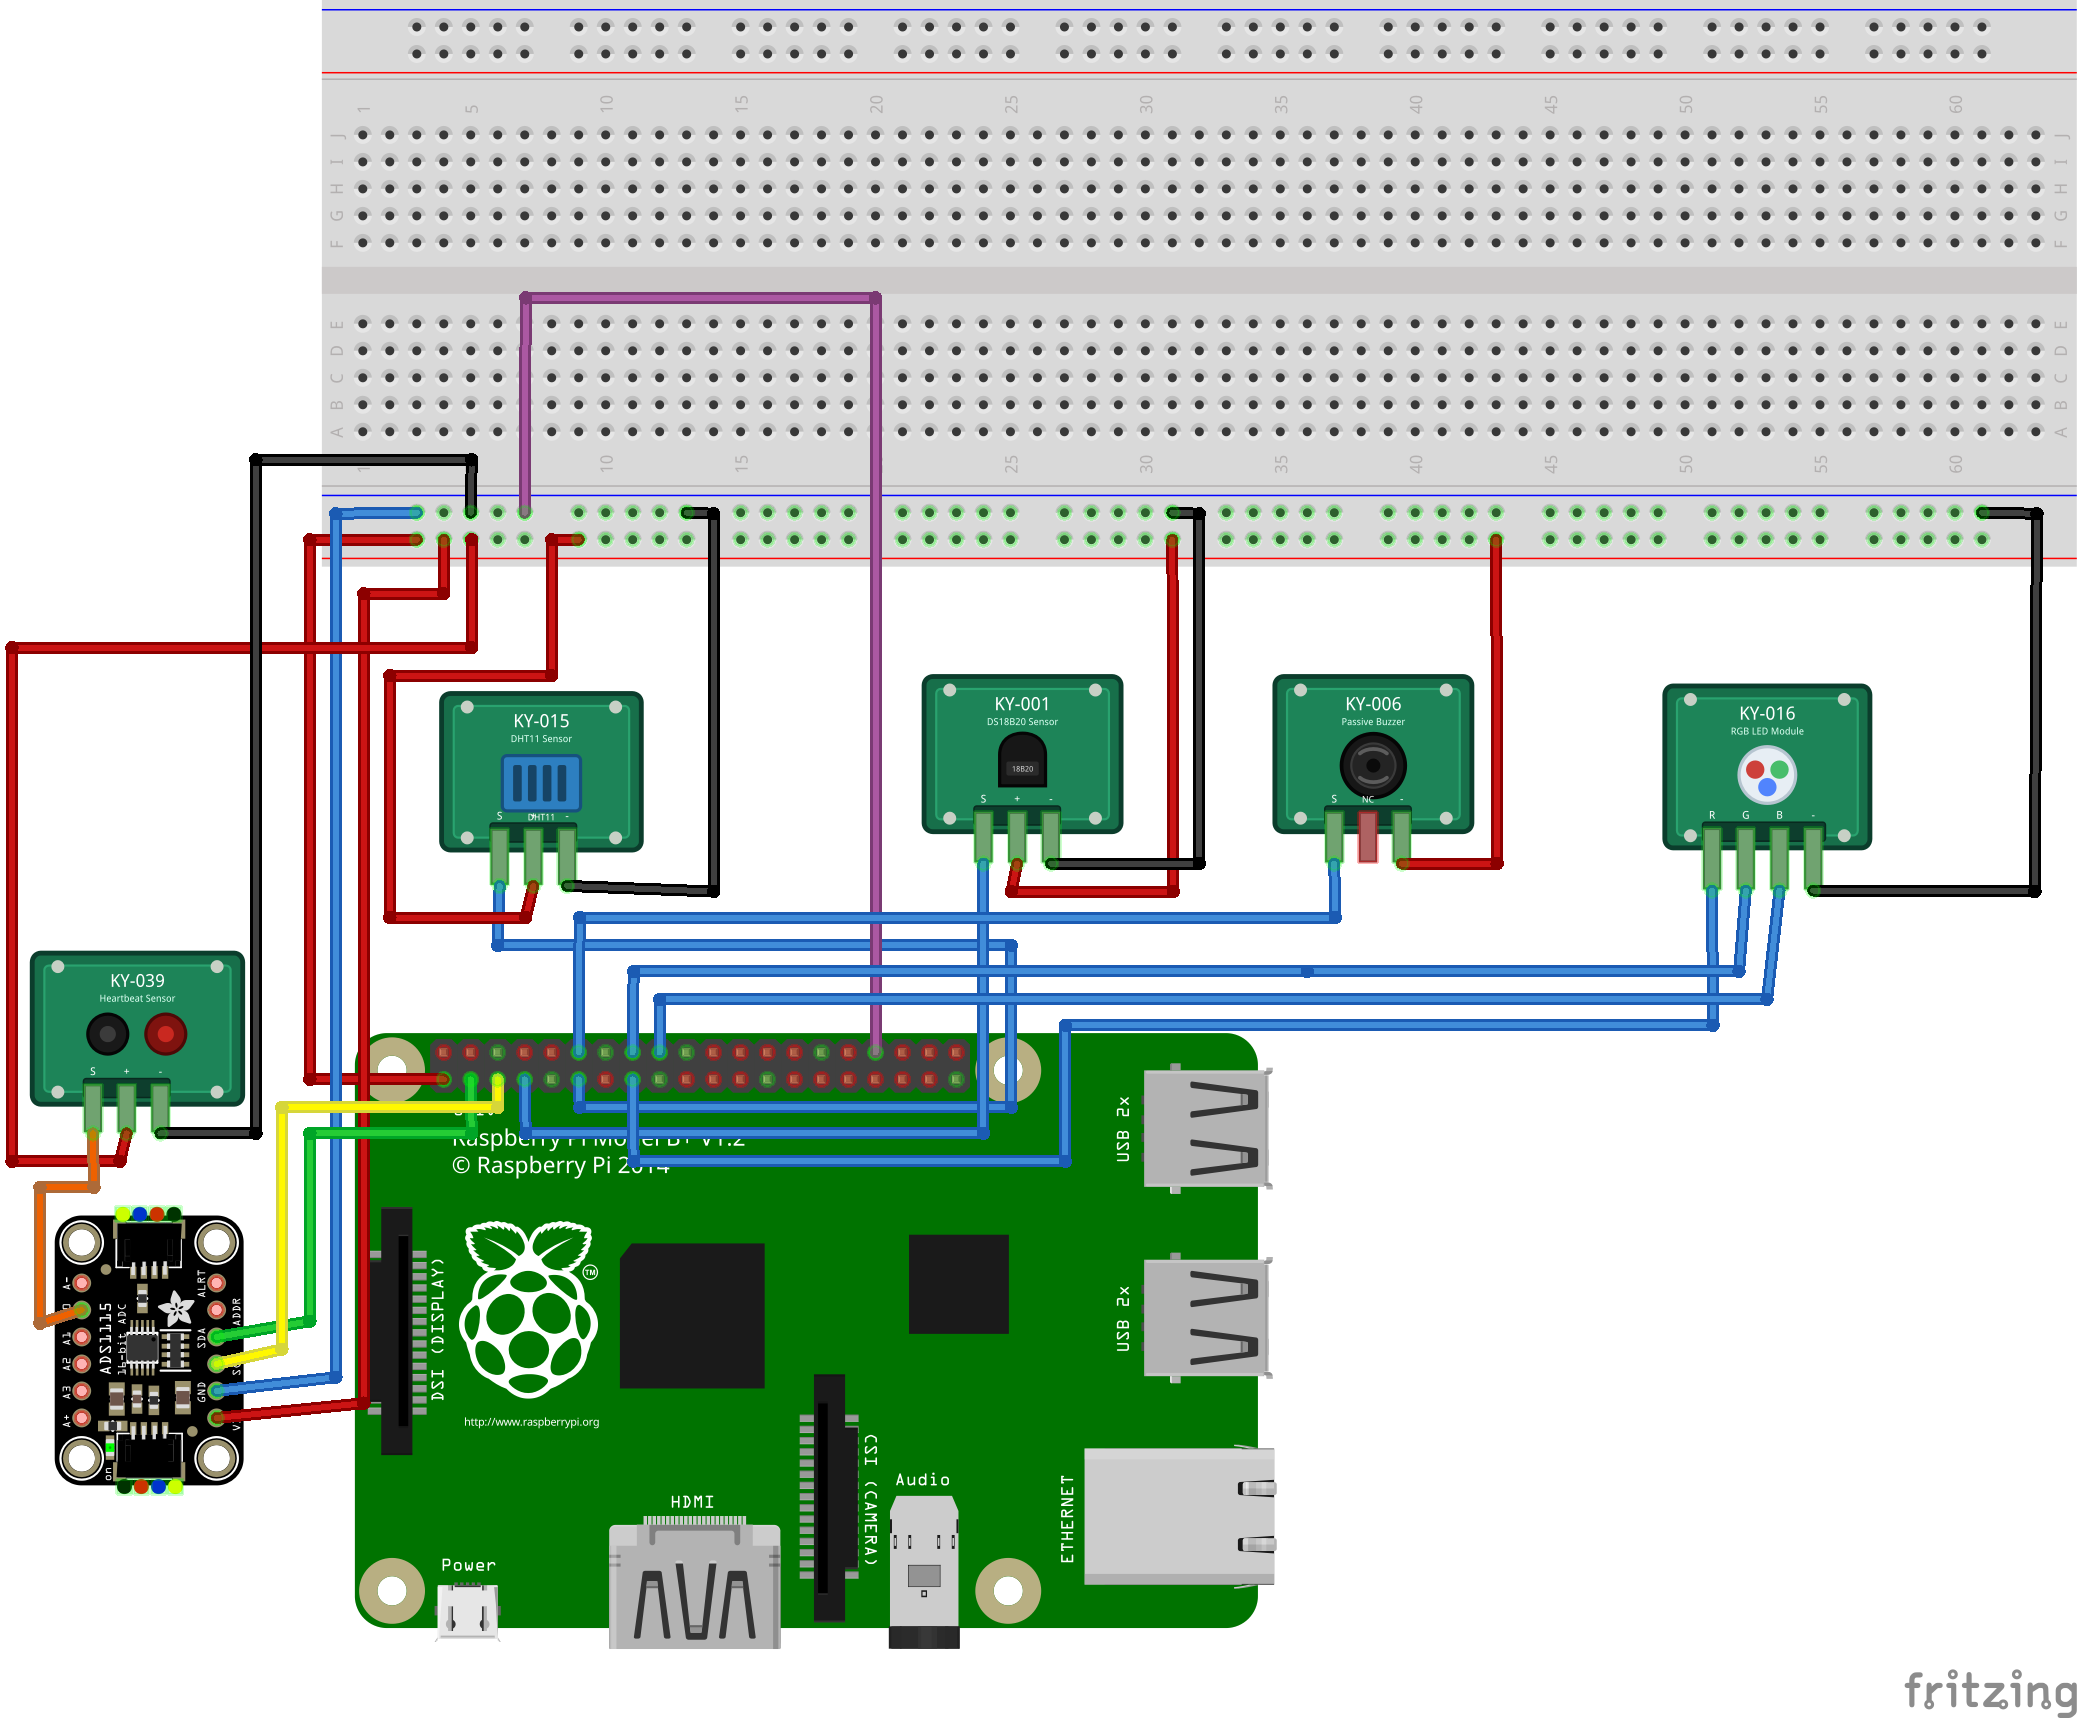
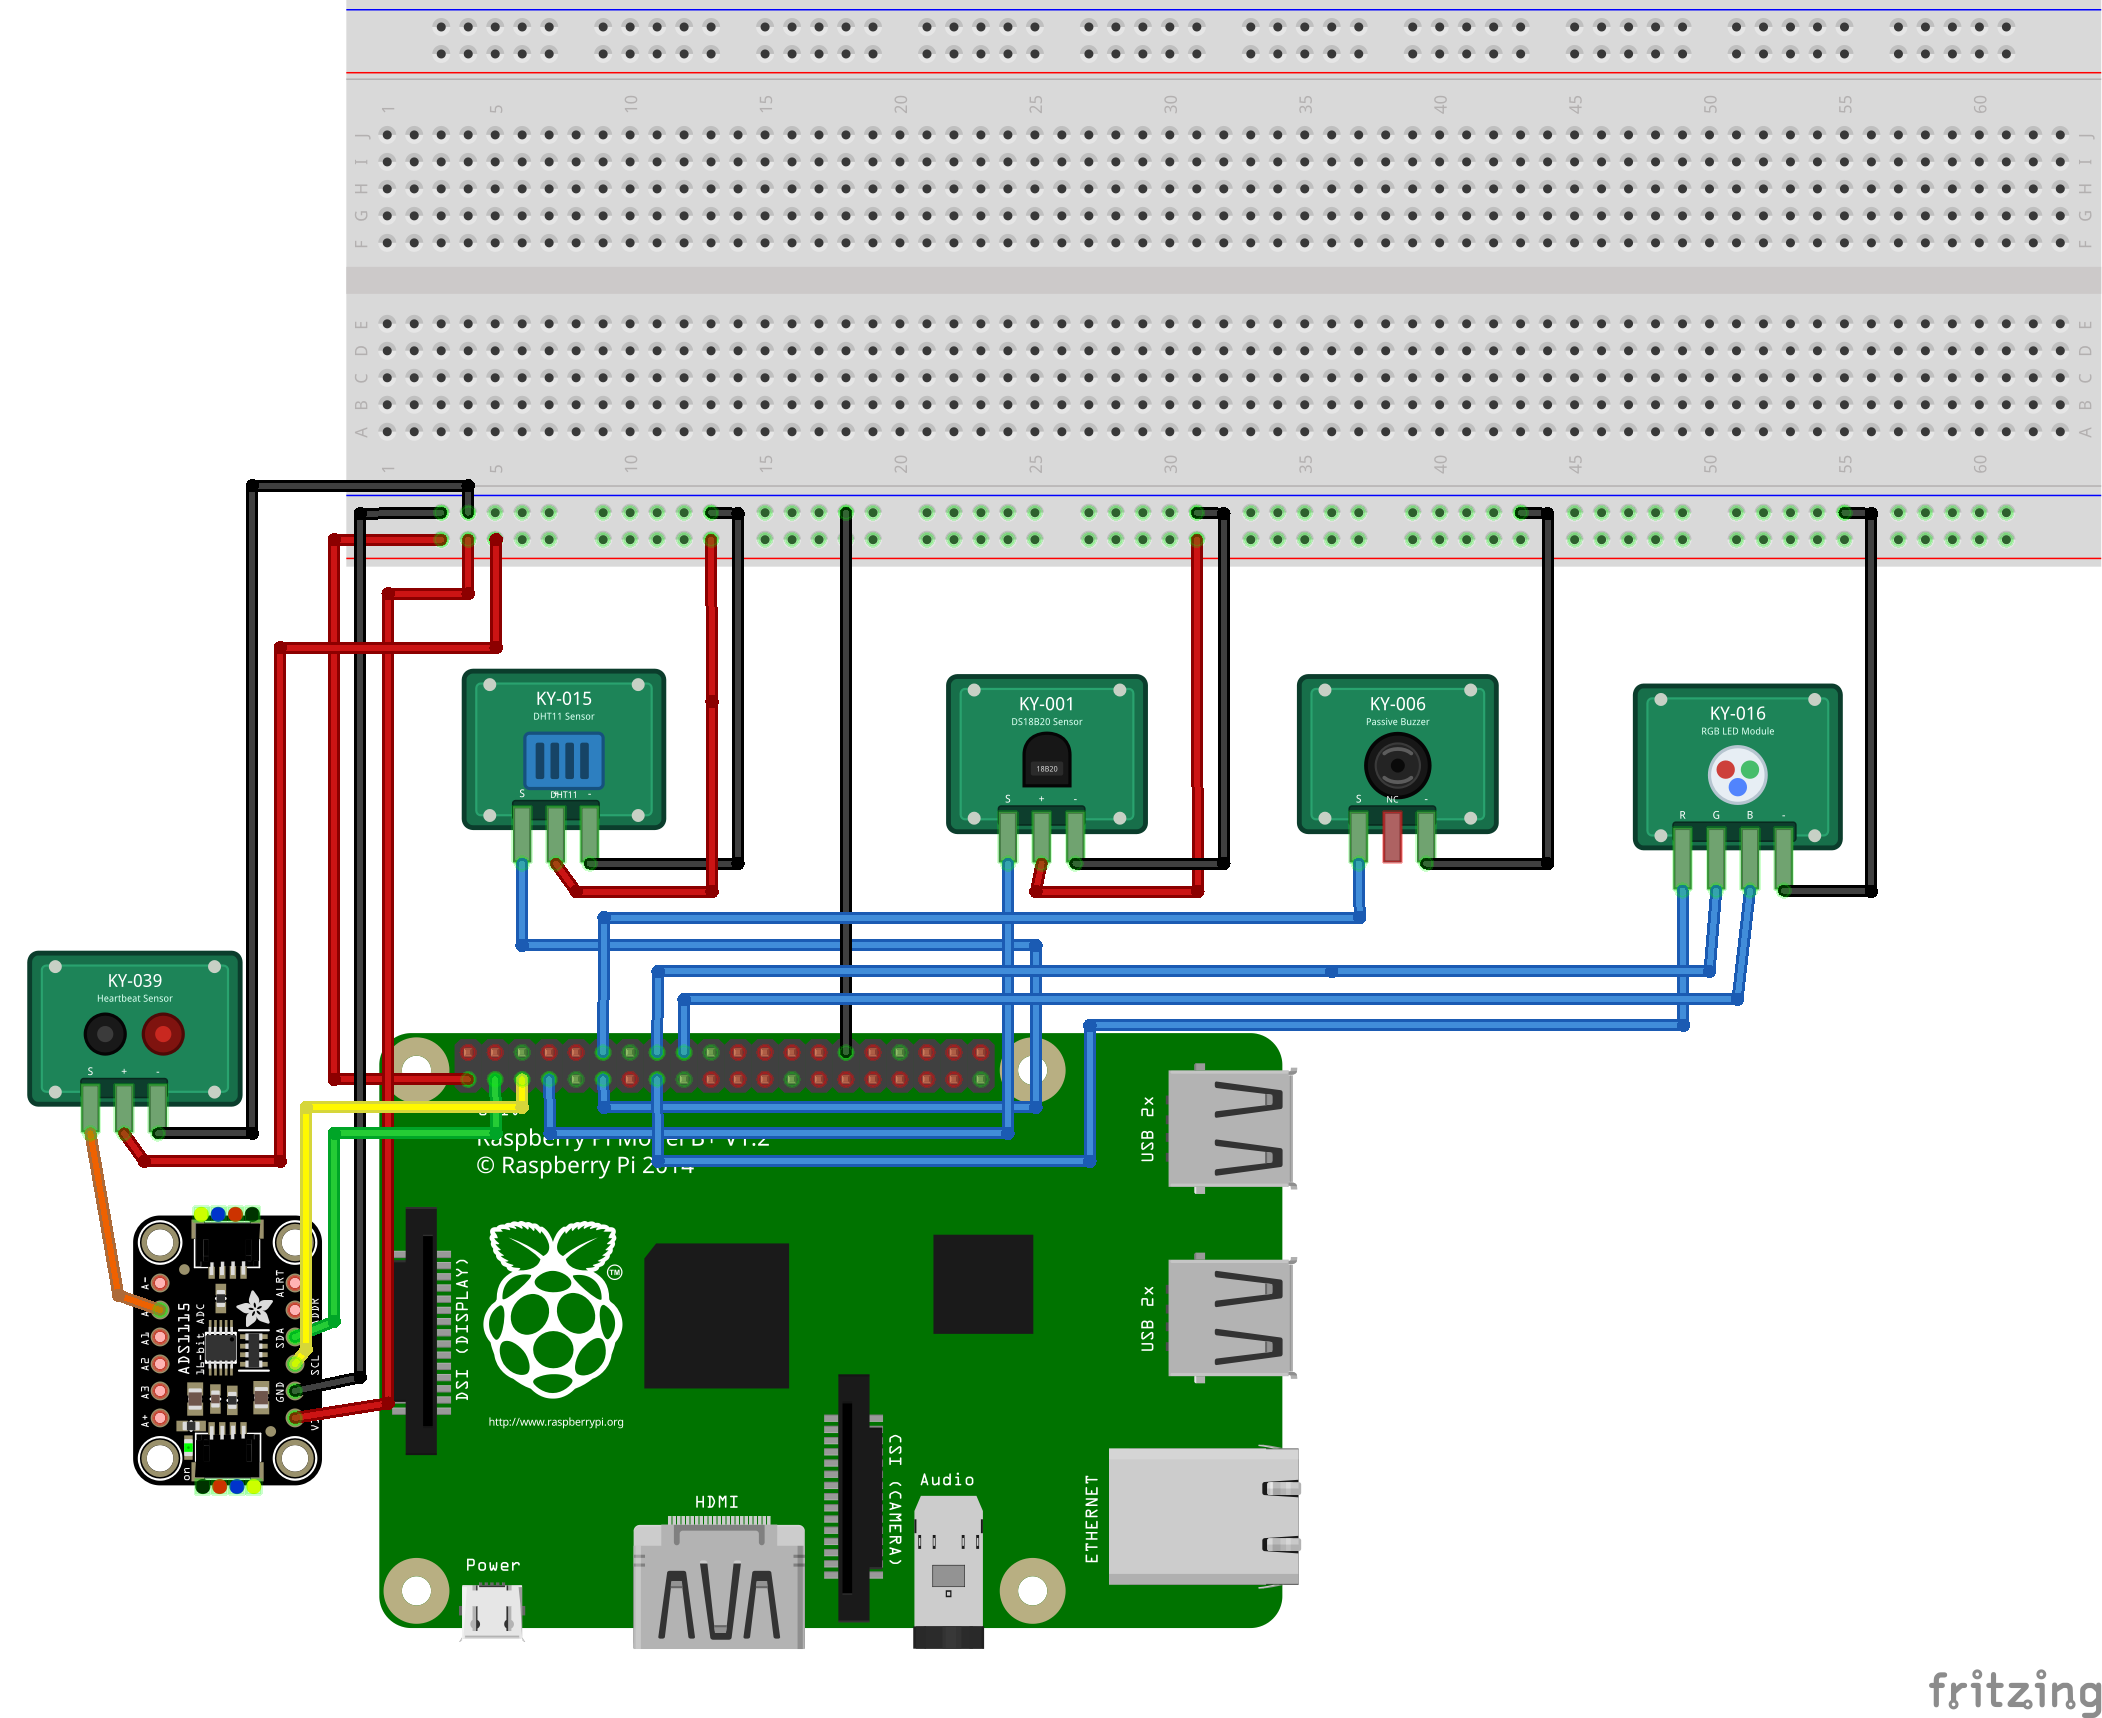
Add ADS1115 voltage test for KY-039 sensor

diff --git a/scripts/test_ky039.py b/scripts/test_ky039.py
@@ -1,0 +1,20 @@
+import time
+import board
+from adafruit_ads1x15 import ADS1115, AnalogIn, ads1x15
+
+i2c = board.I2C()
+ads = ADS1115(i2c, address=0x48)
+ads.gain = 1
+ads.data_rate = 128
+
+chan = AnalogIn(ads, ads1x15.Pin.A0)
+
+while True:
+    try:
+        raw = chan.value
+        voltage = raw * 4.096 / 32767
+        print(f"raw={raw:6d} voltage={voltage:.4f} V")
+        time.sleep(0.1)
+    except OSError as e:
+        print(f"I2C read failed: {e}")
+        time.sleep(0.5)

diff --git a/README.md b/README.md
@@ -30,3 +30,5 @@ KY-016 G → GPIO23 / physical pin 16
 KY-016 B → GPIO24 / physical pin 18
 KY-016 - → GND
 ```
+
+---